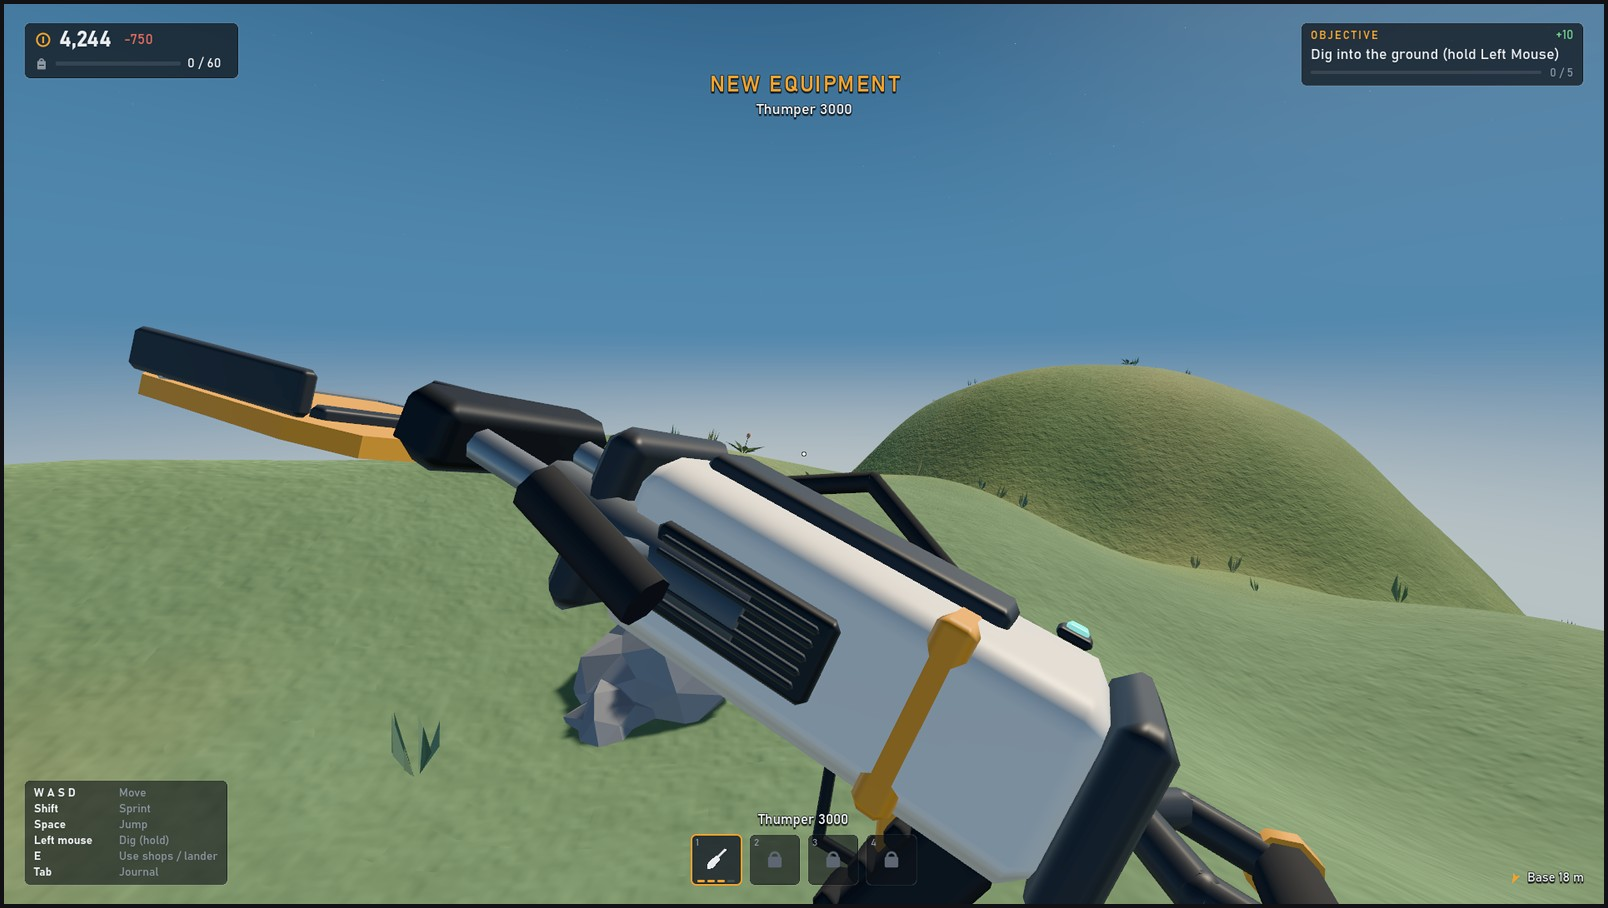
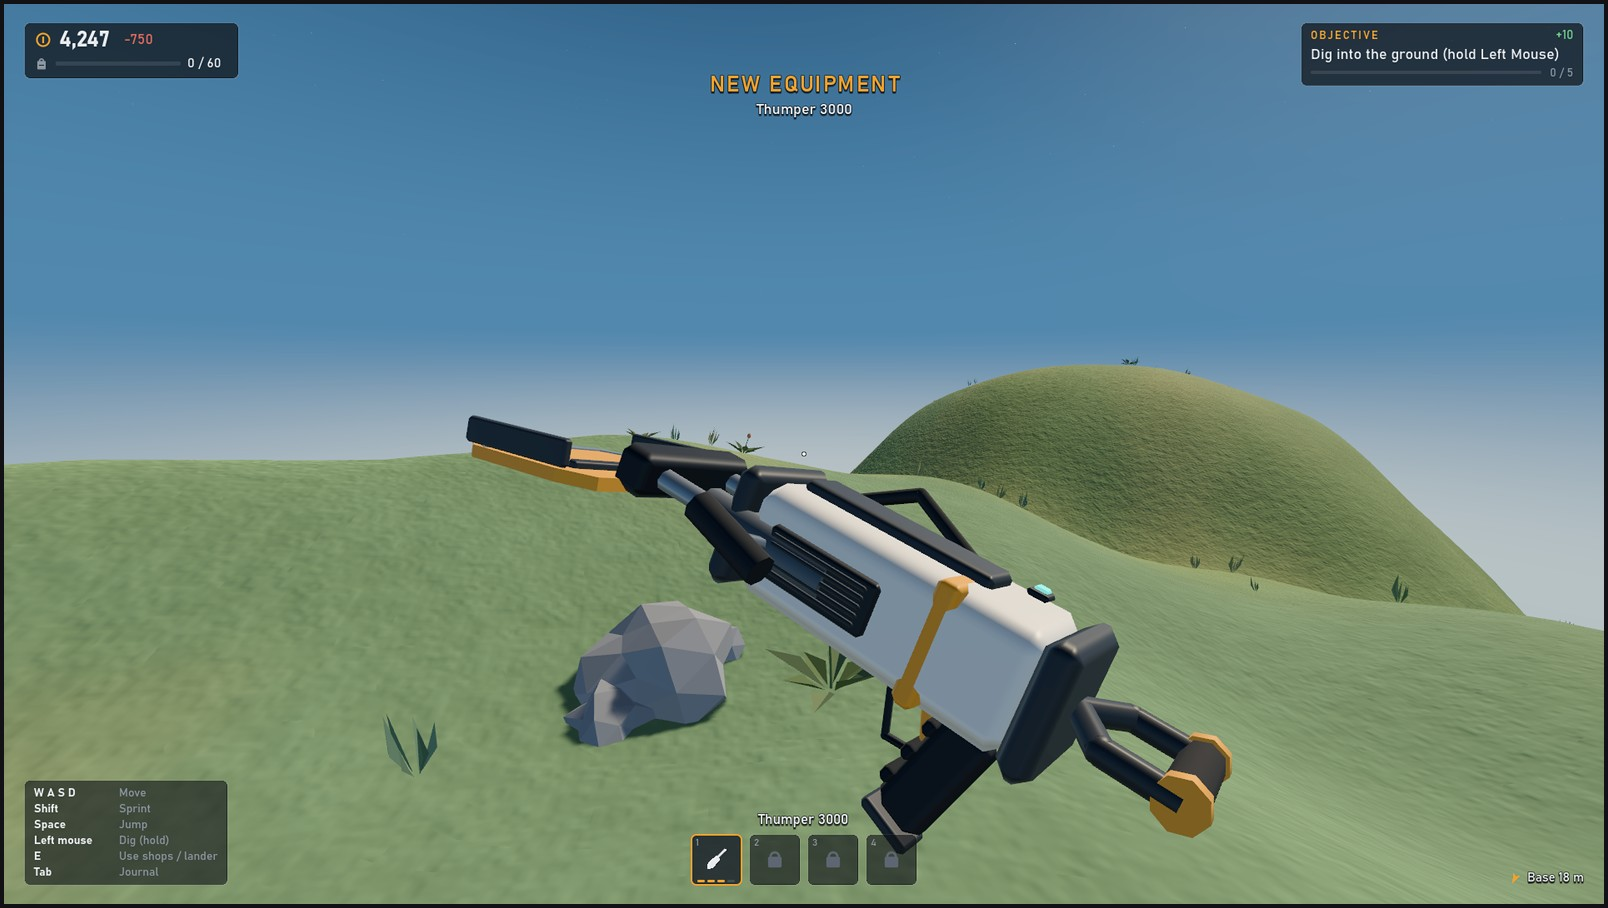
Review fixes: purchase presentation, shielded outpost, uprootable landmarks, Lucky Charm, motion strips
- The new-tool presentation is driven by purchase_made for the held family only (a
  discovery no longer triggers it), waits until menus close, and is held at arm's length.
  The HUD banner raised while a menu hides the HUD is queued and shown on close; the HUD
  fade keeps one tween and runs while paused.
- World.PROTECT_RADIUS 7.5 -> 10.5 m so every station pad, the crates and the solar array
  stand on shielded ground; ground cover and pebbles keep clear of the outpost.
- Landmark stones, columns and cairns are registered and uprooted when dug under.
- Lucky Charm: the chance no longer scales above its listed value with bite volume and
  each planet names a modest lucky_gem. The simulator now models it (~10% of income).
- Smoke test also checks that sounds and music are present in the build.
- tools/dev/shots.gd 'motion' scenario: slowed eight-frame film strips of swing, power
  punch, switch, drill, cannon and inspect (docs/screenshots/motion). They led to a
  stronger power-shovel punch and a thin, fading blast ring.
- Tests: 72 passing (purchase-only presentation, lucky perk, shield and landmark checks).

Changed region(s): [[0.0622, 0.3392, 0.8396, 1.0], [0.2177, 0.8018, 0.2799, 0.8326], [0.0622, 0.0308, 0.0933, 0.0617]]

diff --git a/docs/TESTING.md b/docs/TESTING.md
@@ -16,7 +16,7 @@ The runner prints `[PASS]/[FAIL]` per test and exits with code 1 on any failure 
 see `.github/workflows/tests.yml`, on Linux). Tests redirect all saves to
 `user://test_sandbox/`, so they never touch a real save.
 
-### What is covered (70 tests, 1,401 assertions)
+### What is covered (72 tests, 1,437 assertions)
 
 | Suite | Checks |
 |---|---|
@@ -28,7 +28,7 @@ see `.github/workflows/tests.yml`, on Linux). Tests redirect all saves to
 | `test_f_persistence` | dig a tunnel + chamber, save, unload, reload: same SDF values, player can stand in it, progress restored; control slot proves the tunnel is not there by default |
 | `test_g_planets` | Glimmerock loads from data, lower gravity, own materials and hardness |
 | `test_h_main` | real `main.tscn`: menu → new game → play → shop → menu → continue with the purchase intact |
-| `test_i_overhaul` | every tool tier and every attachment level builds a model and adds geometry; moving parts exist; MeshKit primitives (size, outward normals, per-vertex finish, deterministic rocks); palette / look data complete and within the emission budget; balance-table invariants; a first-build save with obsolete flags still loads; arrival point (outside the pad, on the ground, facing the outpost); **digging never moves or renumbers a crystal**; the outpost gains installations with purchases; the shop builds every view |
+| `test_i_overhaul` | every tool tier and every attachment level builds a model and adds geometry; moving parts exist; MeshKit primitives (size, outward normals, per-vertex finish, deterministic rocks); palette / look data complete and within the emission budget; balance-table invariants; a first-build save with obsolete flags still loads; arrival point (outside the pad, on the ground, facing the outpost); **digging never moves or renumbers a crystal**; the outpost gains installations with purchases and everything it builds stands on shielded ground; landmarks are uprooted when dug under; nothing grows through the pads; the new-tool presentation fires for purchases of the held tool only (not for discoveries) and waits for menus to close; the Lucky Charm stays a perk; the shop builds every view |
 
 ### What automated tests cannot tell you
 
@@ -45,7 +45,8 @@ tools/shots.sh base C:/tmp/fp pipseed 1920x1080 --rendering-method forward_plus
 Scenarios (`tools/dev/shots.gd`): `spawn`, `dig`, `base`, `ui` (HUD, shop, purchase, gear,
 journal, planets, pause, discovery card), `tools` (every tier in first person), `lineup` (every
 tier bare and fully fitted, studio view), `purchase`, `tour` (quarry, tunnel, cavern, heart),
-`surface`, `menu`, `action` (dig + scan with HUD).
+`surface`, `menu`, `action` (dig + scan with HUD), `motion` (eight-frame film strips of the
+first-person animations with game time slowed; tile them with `sheet.tscn`).
 
 * **Windows:** `tools/offscreen.py` creates a separate desktop object and starts Godot on it.
   The window is rendered by the real GPU but can never take focus, appear on screen or receive
@@ -104,13 +105,16 @@ stone tunnel with ore under the headlamp; crystal cavern; both planet Hearts; Gl
 surface, quarry, tunnel and outpost; all 11 tool tiers in first person at rest and in a studio
 line-up bare and fully fitted; HUD; Workshop screen (three families), after a purchase;
 Outfitter; journal; destinations; pause/settings; discovery card; new-tool presentation; main
-menu; HUD and shop at 3440×1440; Mobile vs Forward+ on three scenes.
+menu; HUD and shop at 3440×1440; Mobile vs Forward+ on three scenes; and **film strips**
+(`docs/screenshots/motion/`) of the hand swing, power-shovel punch, tool switch, drill on fresh
+ground, cannon shot with blast, and the new-purchase presentation. The strips led to three
+fixes (a barely visible power punch, a presentation that filled the screen, a thick blast ring).
 
 **Measured, not seen or heard:** frame times; dig, load and save timings; audio levels and
 spectra; pacing (simulation).
 
-**Not verified by anyone:** anything in motion (swing, drill, recoil, purchase inspect, sway,
-particles in flight, bots flying, the menu planet turning); how any sound or the mix actually
+**Not verified by anyone:** how motion *feels* at full speed (timing, weight, smoothness —
+strips show poses, not rhythm); look sway and walk bob; bots flying; the menu planet turning; how any sound or the mix actually
 sounds, including the new ambience and cave reverb; input feel; real play pacing; 4K (the UI
 layout is resolution-independent for 16:9 and was checked at 1080p); gamepad; the Linux build.
 

diff --git a/docs/BALANCE.md b/docs/BALANCE.md
@@ -23,6 +23,7 @@ Assumptions (constants at the top of the script):
 | Trip to sell | walk there and back at 7 m/s × boots, plus climbing out (2 m of path per m of depth, 1.2 with jump jets), plus 6 s at the shops |
 | Selling | whole backpack, every time it is full |
 | Tool choice | the drill as soon as it is owned, otherwise the shovel; vacuum, cannon and bots are not modelled |
+| Lucky Charm | rolled per dig with the game's own formula (`World.luck_roll_chance`) |
 | Discoveries | none found (so no artifact rewards and nothing they unlock) |
 | `balanced` policy | tools, backpack and a spread of gear/attachments in a sensible order; small purchases while saving |
 | `rush` policy | tool tiers and backpack only |
@@ -61,12 +62,12 @@ barely mattered, and each tier was in use for one to two minutes.
 |---|---|---|
 | Sturdy Spade | 1.3 min | 1.3 min |
 | Backpack 1 | 1.9 min | 1.9 min |
-| Thumper 3000 | 10.8 min | 8.2 min |
-| Slurp-o-Vac | 12.0 min | – |
-| Burrow Drill | 18.6 min | 17.8 min |
-| Boomer | 35.5 min | – |
-| Diamond Drill | 59 min | 53.5 min |
-| Mega Scooper | 74 min | – |
+| Thumper 3000 | 11.0 min | 8.2 min |
+| Slurp-o-Vac | 13.2 min | – |
+| Burrow Drill | 18.4 min | 17.8 min |
+| Boomer | 35.9 min | – |
+| Diamond Drill | 58 min | 53.5 min |
+| Mega Scooper | 73 min | – |
 
 Income per minute (balanced): 90 → 220 → 800 in the first fifteen minutes, then roughly
 600–1,400 during the Burrow Drill, 1,100–3,000 with the Diamond Drill. A sale every 50–75 s in
@@ -85,6 +86,11 @@ the first twenty minutes, every 150–300 s later. Ore and crystals are ~55 % of
   first-trip fuel 8,000). Early prices stay low.
 * **Tutorial rewards** are a little larger so the first sale plus the first three objectives
   buy the spade; late objective and discovery rewards scale with late prices.
+* **Lucky Charm.** With the old rule (chance scaling up to ×2 with bite volume, paying 1–2
+  *amethyst*) a 260-credit charm would have out-earned the Thumper once gems were worth 60.
+  The chance no longer grows beyond the listed percentage for big bites, and each planet names
+  a modest `lucky_gem` (Pip Quartz, Moonsilver). Modelled share: ~10 % of all income with the
+  charm bought at 7 min and upgraded at 27 min.
 * Tool **stats were not changed**: the feel of each tool is exactly what it was.
 
 `tests/test_i_overhaul.gd::test_balance_tables_are_sane` guards the invariants (rising costs,
@@ -95,7 +101,7 @@ every tier a real step in ground moved or in power, ore worth more than dirt, ba
 * Any of this with a human at the controls.
 * **Glimmerock.** Its values and its tools' late prices were scaled by the same rules but the
   simulator was only run on Pipseed, starting from a new game.
-* The contribution of the vacuum, cannon, helper bots, lucky charm and discoveries.
+* The contribution of the vacuum, cannon, helper bots and discoveries.
 * The very late game (Mole Engine, Planet Cracker, both Hearts).
 
 When a playtest disagrees with the model, change the JSON, re-run the simulator to see what

diff --git a/docs/ROADMAP.md b/docs/ROADMAP.md
@@ -6,16 +6,16 @@ A new visual identity (docs/ART_DIRECTION.md) applied to terrain, sky, lighting,
 outpost, all tools, discoveries, effects and the whole interface; smoother, class-specific
 tool animation and purchase presentation; a simulated and rebalanced economy
 (docs/BALANCE.md); a level-normalised audio mix with cave acoustics and ambience; Windows
-export presets and a verified build; GPU benchmarks; an off-desktop render harness; seven new
+export presets and a verified build; GPU benchmarks; an off-desktop render harness; nine new
 regression tests. Details and evidence: docs/TESTING.md, docs/TECHNICAL.md.
 
 ## Known limitations
 
 **Not verified by a person**
 
-* **Nobody has played or listened to this build.** Stills were rendered on a real GPU and
-  reviewed; motion, timing, input feel and all audio (including the new ambience beds and
-  cave reverb) are unreviewed. Expect to adjust animation amounts and the mix.
+* **Nobody has played or listened to this build.** Stills and slowed film strips of the tool
+  animations were rendered on a real GPU and reviewed; real-time feel, input and all audio
+  (including the new ambience beds and cave reverb) are unreviewed. Expect to adjust animation amounts and the mix.
 * **Pacing is modelled, not playtested**, and only on Pipseed. Glimmerock's economy and the
   late game are scaled by rule, not measured.
 * 4K was not rendered (the UI is resolution-independent at 16:9; 3440×1440 was checked).

diff --git a/README.md b/README.md
@@ -7,7 +7,7 @@ until you reach the planet's heart and fly on to the next world.
 
 > **Status: v0.2.0 — visual identity and game-feel pass.** Two planets, four tool families
 > (11 tiers, 12 attachments), 10 gear lines, 18 discoveries, helper bots, saving, a full
-> menu/HUD/shop UI and 70 automated tests. The whole look was rebuilt in this pass: see
+> menu/HUD/shop UI and 72 automated tests. The whole look was rebuilt in this pass: see
 > [docs/ART_DIRECTION.md](docs/ART_DIRECTION.md) and the before/after sheets in
 > [docs/screenshots/compare](docs/screenshots/compare). No human has playtested it yet —
 > [docs/ROADMAP.md](docs/ROADMAP.md) lists exactly what was and was not verified.

diff --git a/docs/TECHNICAL.md b/docs/TECHNICAL.md
@@ -169,7 +169,8 @@ and by the planet's `look.wind`.
 
 `export_presets.cfg` has Windows and Linux presets. Non-resource files are not packaged by
 default, so the presets include `data/*.json, data/planets/*.json` explicitly and exclude
-`tests/`, `tools/`, `docs/`. `Main` implements `-- --smoke-test` (see docs/TESTING.md); the
+`tests/`, `tools/`, `docs/`. `World.PROTECT_RADIUS` (10.5 m) shields the ground under the whole
+outpost. `Main` implements `-- --smoke-test` (see docs/TESTING.md); the
 exported Windows build passes it headless and on the Vulkan renderer.
 
 ## Saving (`src/autoload/save_system.gd`)
